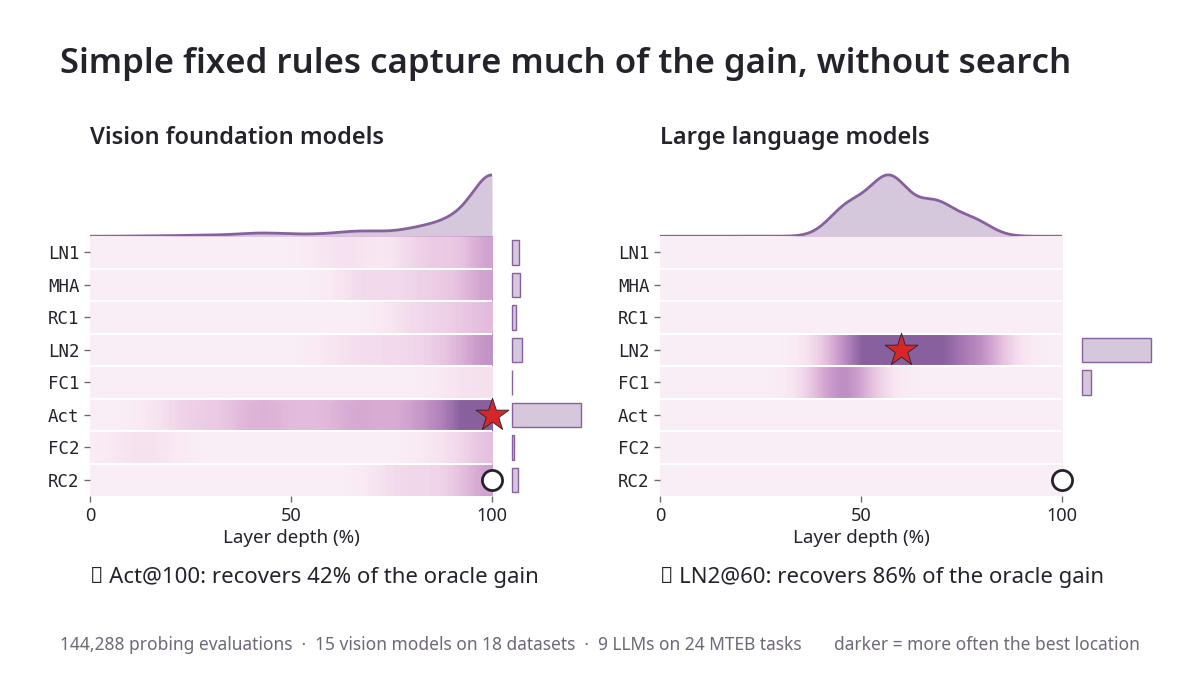
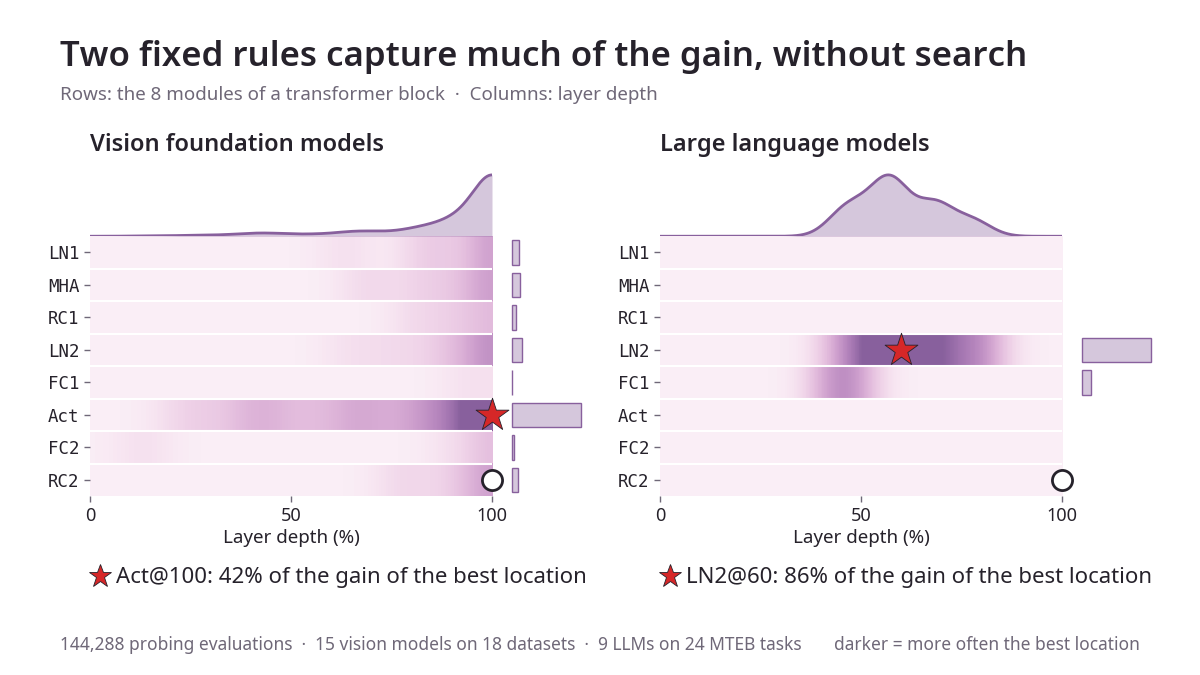
Start the animation with the question, name the modules in the explorer

diff --git a/static/js/waldo.js b/static/js/waldo.js
@@ -7,6 +7,8 @@
     language: { name: "LN2@60", module: 3, depth: 0.6 },
   };
   const DEFAULT_MODEL = { vision: "ViT L", language: "Qwen3 8B" };
+  const MODULE_NAMES = ["first normalization", "attention", "residual stream after attention", "second normalization",
+    "first FFN layer", "FFN activation", "FFN output", "residual stream"];
   const state = { mode: "vision", model: "ViT L", dataset: "Food-101", pickDepth: 0.5, pickModule: 7 };
   const $ = (id) => document.getElementById(id);
   const chart = $("explorer-chart");
@@ -99,7 +101,7 @@
           fill: v > base ? color((v - base) / (hi - base)) : token("--waldo-below"),
         }, svg);
         rect.addEventListener("pointerenter", () => {
-          tip.textContent = `Layer ${l} (${depth(l)}%) · ${name} · ${pct(v)} (${pp(v - base)})`;
+          tip.textContent = `${name}, ${MODULE_NAMES[m]} · layer ${l} (${depth(l)}%) · ${pct(v)} (${pp(v - base)})`;
           tip.style.left = Math.min(Math.max(cx(l), 120), width - 120) + "px";
           tip.style.top = top + m * cellH + "px";
           tip.style.display = "block";
@@ -136,10 +138,10 @@
     const pick = grid[pickLayer][state.pickModule];
     const ruleValue = grid[ruleLayer][rule.module];
     $("explorer-readout").innerHTML = `
-      <div class="pick"><dt>▢ Your pick: ${D.modules[state.pickModule]} at ${depth(pickLayer)}%</dt><dd>${pct(pick)}<small>${pp(pick - base)}${share(pick)}</small></dd></div>
+      <div class="pick"><dt>▢ Your pick: ${D.modules[state.pickModule]} (${MODULE_NAMES[state.pickModule]}) at ${depth(pickLayer)}% depth</dt><dd>${pct(pick)}<small>${pp(pick - base)}${share(pick)}</small></dd></div>
       <div><dt>○ Standard probing, RC2@100</dt><dd>${pct(base)}<small>residual stream, last layer</small></dd></div>
       <div><dt>◇ ${rule.name}, fixed rule</dt><dd>${pct(ruleValue)}<small>${pp(ruleValue - base)}${share(ruleValue)}</small></dd></div>
-      <div><dt>★ Best location, oracle</dt><dd>${pct(bestValue)}<small>${pp(oracle)}, ${D.modules[best[1]]} at layer ${best[0]} (${depth(best[0])}%)</small></dd></div>`;
+      <div><dt>★ Best location, oracle</dt><dd>${pct(bestValue)}<small>${pp(oracle)}, ${D.modules[best[1]]} (${MODULE_NAMES[best[1]]}) at ${depth(best[0])}% depth</small></dd></div>`;
     $("explorer-legend").innerHTML = `
       <span><span class="swatch"></span>not better than standard probing</span>
       <span>better: +0<span class="ramp" style="background:linear-gradient(90deg,${D.ramp.join(",")})"></span>${pp(oracle)}</span>
